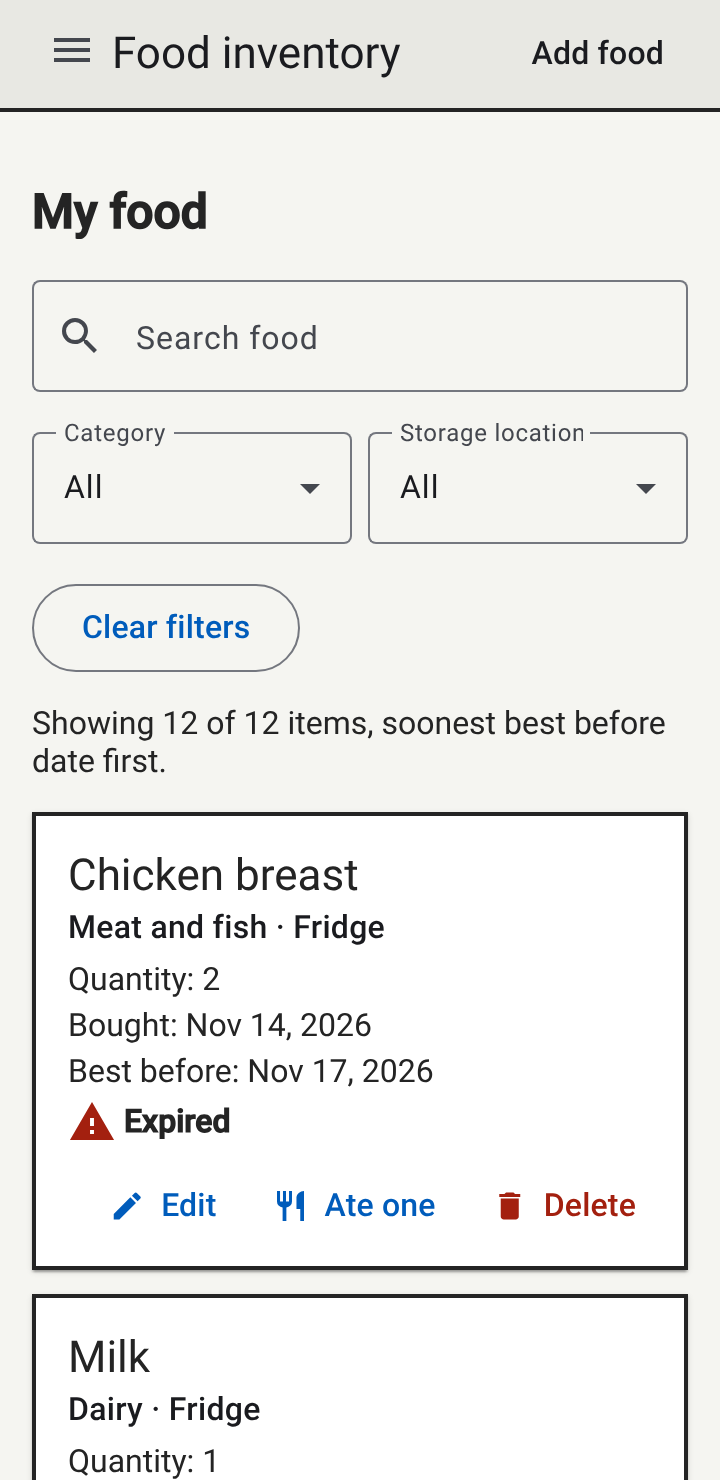
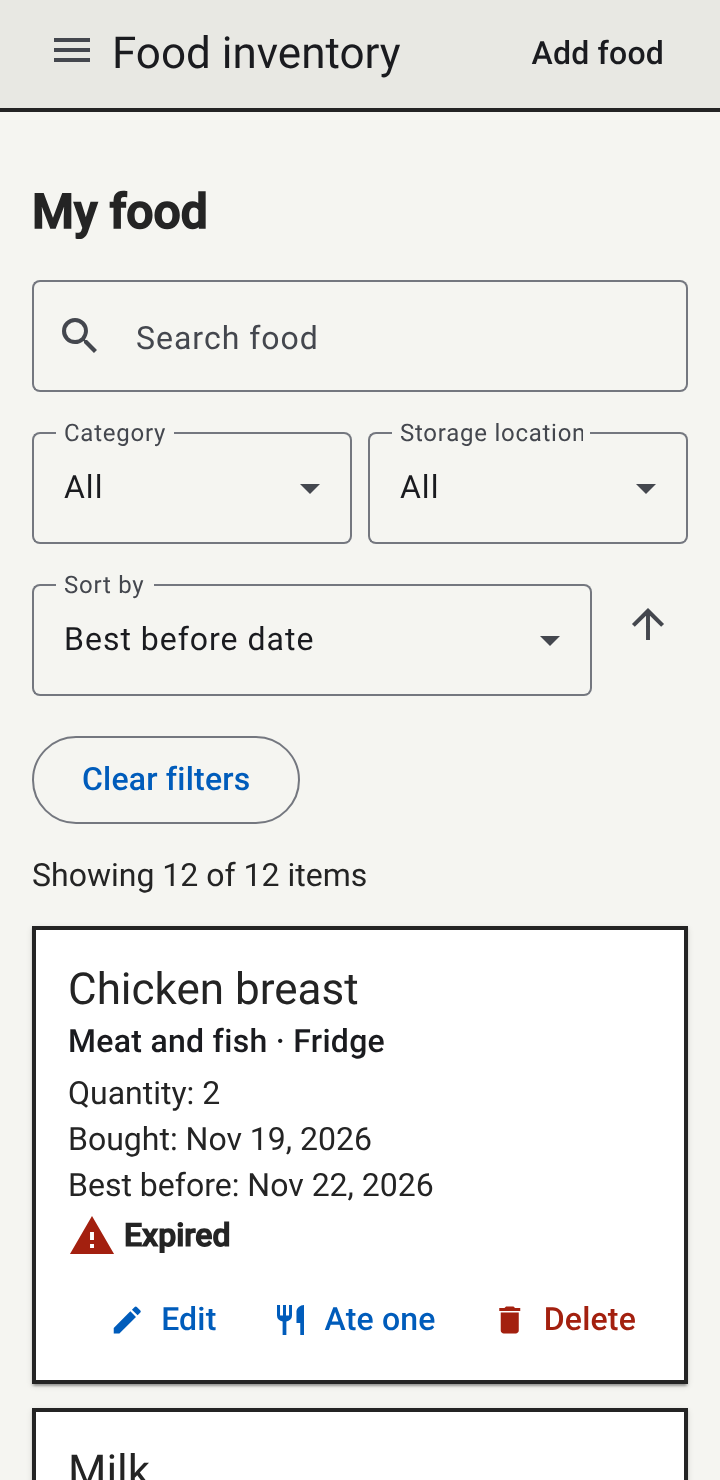
Sort the list as in the course's Lecture 10: Sort by (best before date, name, quantity) and an arrow for the direction; food without a date stays last

Changed region(s): [[0.0306, 0.373, 0.9778, 1.0], [0.9472, 0.5595, 0.9778, 0.6216], [0.8861, 0.4041, 0.9167, 0.4351]]

diff --git a/Frontend/FoodInventory.NG/src/app/food-item-list/food-item-list.ts b/Frontend/FoodInventory.NG/src/app/food-item-list/food-item-list.ts
@@ -43,6 +43,8 @@ export class FoodItemList implements OnInit {
   loading = signal(true);
 
   searchTerm: string = '';
+  sortBy: string = 'bestBeforeDate';
+  sortDirection: 'asc' | 'desc' = 'asc';
   // 0 means "all".
   categoryId: number = 0;
   storageLocationId: number = 0;
@@ -71,12 +73,34 @@ export class FoodItemList implements OnInit {
   }
 
   filteredFoodItems(): FoodItem[] {
-    return this.foodItems().filter(
+    const result = this.foodItems().filter(
       (foodItem) =>
         foodItem.name.toLowerCase().includes(this.searchTerm.trim().toLowerCase()) &&
         (this.categoryId === 0 || foodItem.categoryId === this.categoryId) &&
         (this.storageLocationId === 0 || foodItem.storageLocationId === this.storageLocationId),
     );
+    return result.sort((a, b) => {
+      let aVal: any = a[this.sortBy as keyof FoodItem];
+      let bVal: any = b[this.sortBy as keyof FoodItem];
+
+      // Food without a best before date stays at the end, in both directions.
+      if (aVal === null && bVal === null) return 0;
+      if (aVal === null) return 1;
+      if (bVal === null) return -1;
+
+      if (typeof aVal === 'string') {
+        aVal = aVal.toLowerCase();
+        bVal = bVal.toLowerCase();
+      }
+
+      if (aVal < bVal) return this.sortDirection === 'asc' ? -1 : 1;
+      if (aVal > bVal) return this.sortDirection === 'asc' ? 1 : -1;
+      return 0;
+    });
+  }
+
+  toggleSortDirection(): void {
+    this.sortDirection = this.sortDirection === 'asc' ? 'desc' : 'asc';
   }
 
   clearFilters(): void {

diff --git a/Frontend/FoodInventory.NG/src/app/food-item-list/food-item-list.html b/Frontend/FoodInventory.NG/src/app/food-item-list/food-item-list.html
@@ -26,6 +26,19 @@
     </mat-select>
   </mat-form-field>
 </div>
+<div class="filters">
+  <mat-form-field appearance="outline">
+    <mat-label>Sort by</mat-label>
+    <mat-select [(ngModel)]="sortBy">
+      <mat-option value="bestBeforeDate">Best before date</mat-option>
+      <mat-option value="name">Name</mat-option>
+      <mat-option value="quantity">Quantity</mat-option>
+    </mat-select>
+  </mat-form-field>
+  <button mat-icon-button (click)="toggleSortDirection()" aria-label="Change the sort direction">
+    <mat-icon>{{ sortDirection === 'asc' ? 'arrow_upward' : 'arrow_downward' }}</mat-icon>
+  </button>
+</div>
 <button mat-stroked-button (click)="clearFilters()">Clear filters</button>
 
 @if (loading()) {
@@ -37,10 +50,7 @@
 } @else if (filteredFoodItems().length === 0) {
   <p>No food matches these filters.</p>
 } @else {
-  <p>
-    Showing {{ filteredFoodItems().length }} of {{ foodItems().length }} items, soonest best before
-    date first.
-  </p>
+  <p>Showing {{ filteredFoodItems().length }} of {{ foodItems().length }} items</p>
 }
 
 @for (foodItem of filteredFoodItems(); track foodItem.id) {

diff --git a/Frontend/FoodInventory.NG/src/app/food-item-list/food-item-list.spec.ts b/Frontend/FoodInventory.NG/src/app/food-item-list/food-item-list.spec.ts
@@ -48,4 +48,21 @@ describe('FoodItemList', () => {
       'Oat milk',
     ]);
   });
+  it('should sort by name both ways, and keep food without a date last', () => {
+    component.foodItems.set([
+      { id: 1, name: 'Milk', bestBeforeDate: '2026-11-20' },
+      { id: 2, name: 'apples', bestBeforeDate: null },
+      { id: 3, name: 'Cheese', bestBeforeDate: '2026-11-25' },
+    ] as FoodItem[]);
+    expect(component.filteredFoodItems().map((foodItem) => foodItem.id)).toEqual([1, 3, 2]);
+    component.toggleSortDirection();
+    expect(component.filteredFoodItems().map((foodItem) => foodItem.id)).toEqual([3, 1, 2]);
+    component.sortBy = 'name';
+    component.toggleSortDirection();
+    expect(component.filteredFoodItems().map((foodItem) => foodItem.name)).toEqual([
+      'apples',
+      'Cheese',
+      'Milk',
+    ]);
+  });
 });

diff --git a/docs/BACKLOG.md b/docs/BACKLOG.md
@@ -53,9 +53,9 @@ Scope (team roadmap): CRUD for FoodItem and Category is required, StorageLocatio
 - **US7 Quantity:** the quantity is entered in the form and shown on the card. "Ate one" lowers it by 1 (PUT with the whole item) and the snackbar says "Ate one Pasta"; on the last one the app asks "Delete Pasta?" and deletes it.
 - **US8 Category drop-down:** the category comes from a drop-down that starts with "No category"; six example categories come with the database; the category is shown on the card.
 - **US9 Categories** (menu "Categories", `/categories`): add, rename (Save) and delete after a question; an empty name cannot be saved or added, and spaces at the start and the end are removed. A category that still has food cannot be deleted: the red snackbar shows the API's message "Dairy still has food in it, so it cannot be deleted."
-- **US10 Filter:** a search field finds food by name (capital letters do not matter); two drop-downs on the list, by category and by storage location, which can be combined; "Clear filters" shows everything again. The line "Showing 3 of 12 items, soonest best before date first." says how many match; when nothing matches: "No food matches these filters."
+- **US10 Filter:** a search field finds food by name (capital letters do not matter); two drop-downs on the list, by category and by storage location, which can be combined; "Clear filters" shows everything again. The line "Showing 3 of 12 items" says how many match; when nothing matches: "No food matches these filters."
 - **US11 Expiring food:** "Expired" when the best before date is before today, "Eat soon" from today up to 3 days ahead, each with a warning icon and text, not colour alone. Food without a best before date is never marked.
-- **US12 Sort:** the list is sorted by the database: soonest best before date first, food without a date last, ties by name.
+- **US12 Sort:** the list is sorted by the database: soonest best before date first, food without a date last, ties by name. "Sort by" (best before date, name, quantity) and the arrow button change the order; food without a date stays last.
 - **US13 Storage locations** (menu "Storage locations", `/storage-locations`): as US9: "Fridge still has food in it, so it cannot be deleted."
 
 ## Definition of Done

diff --git a/README.md b/README.md
@@ -12,7 +12,7 @@ Group project for the CBS course *Designing and Developing Digital Business Appl
 
 - **Food:** add, edit and delete food (name, quantity, purchase date, best before date, category, storage location). The form, the API and the database all check the input.
 - **The list:** the food that goes off first is at the top; "Expired" and "Eat soon" are marked with an icon and text.
-- **Search and filters:** search by name; filter by category and by storage location.
+- **Search, filters and sort:** search by name; filter by category and by storage location; sort by best before date (the default), name or quantity, both ways.
 - **Ate one:** lowers the quantity by one; the last one is deleted after a question.
 - **Categories and storage locations:** add, rename and delete them. One that still has food cannot be deleted; the API answers 409 and the page says why.
 
@@ -66,7 +66,7 @@ cd Frontend/FoodInventory.NG
 ng test --watch=false
 ```
 
-There are 27 xUnit tests of the controllers, with a mocked repository, and 23 Karma + Jasmine tests of the components and services. GitHub Actions (`.github/workflows/tests.yml`) runs them on every pull request, together with the database script and checks of the API's answers.
+There are 27 xUnit tests of the controllers, with a mocked repository, and 24 Karma + Jasmine tests of the components and services. GitHub Actions (`.github/workflows/tests.yml`) runs them on every pull request, together with the database script and checks of the API's answers.
 
 ## API
 
